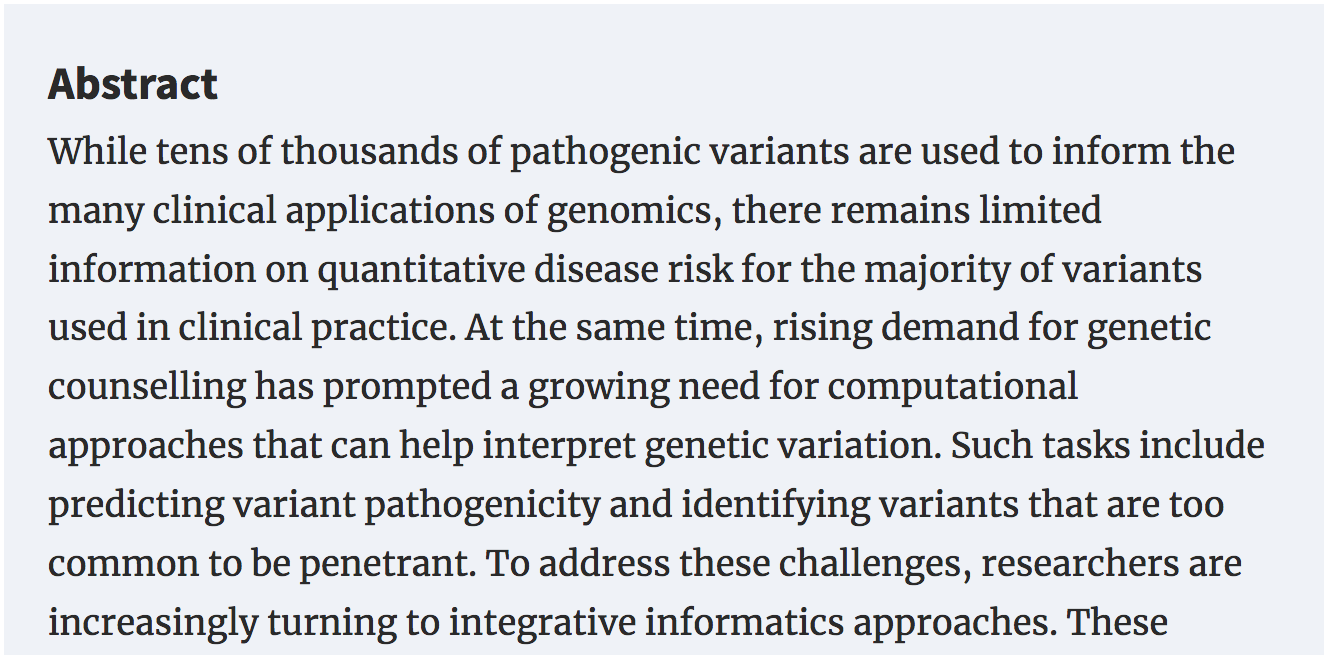
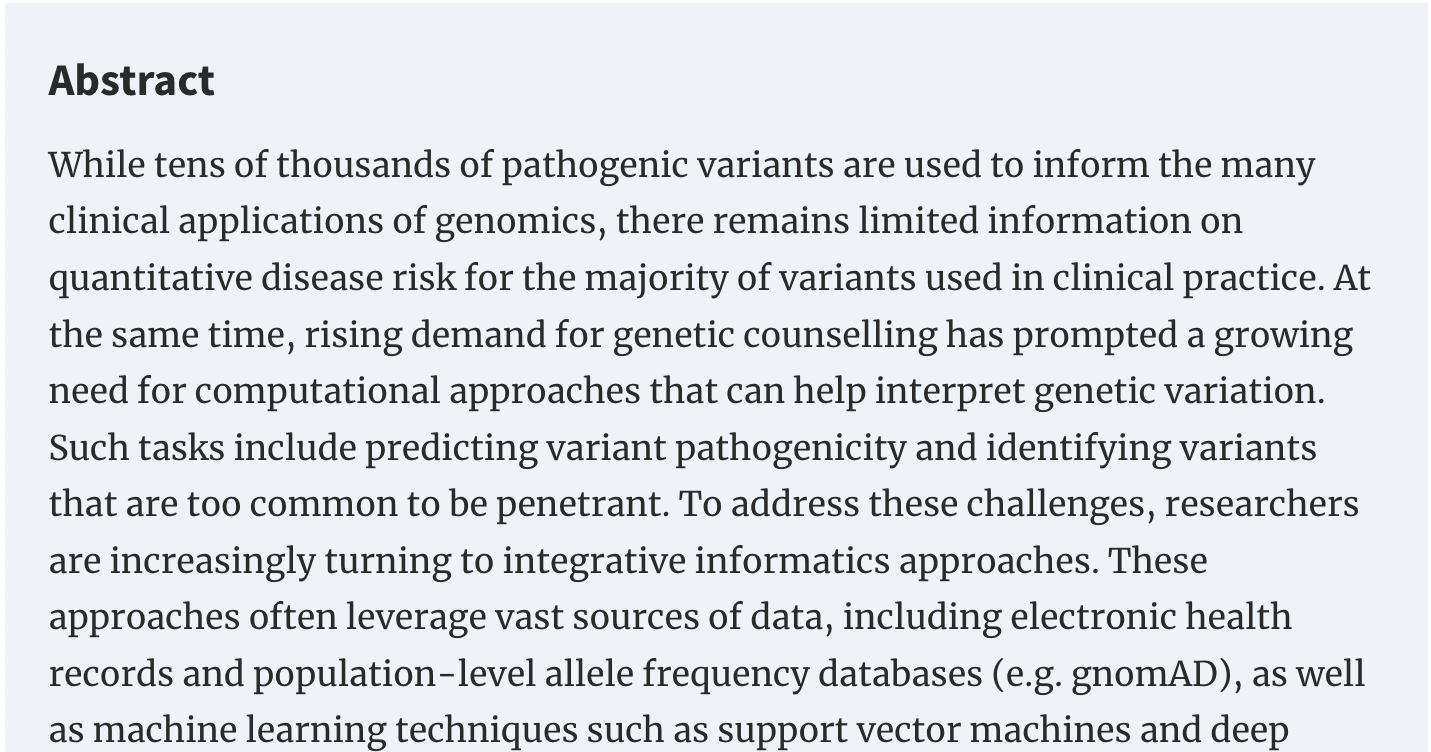
Increased image quality of HMG title/abstract

Changed region(s): [[0.0308, 0.1832, 0.9549, 1.0], [0.0308, 0.0916, 0.1848, 0.1527]]

diff --git a/_posts/2018-05-01-hmg-paper.md b/_posts/2018-05-01-hmg-paper.md
@@ -11,9 +11,9 @@ Today, [my first paper](https://academic.oup.com/hmg/article/27/R1/R29/4939376) 
 Very grateful to my mentor Raj Manrai for all his help in making this possible. 
 
 <br>
-<img src="/img/hmg-title.png" alt="HMG Paper Title Section" title="HMG Paper Title Section" style="width:600px;height:249;">  
-<img src="/img/hmg-abstract-1.png" alt="HMG Paper Title Section" title="HMG Paper Title Section" style="width:600px;height:296px;">  
-<img src="/img/hmg-abstract-2.png" alt="HMG Paper Title Section" title="HMG Paper Title Section" style="width:598px;height:265px;">  
+<img src="/img/hmg-title.png" alt="HMG Paper Title Section" title="HMG Paper Title Section" style="width:600px;height:222;">  
+<img src="/img/hmg-abstract-1.png" alt="HMG Paper Abstract Section 1" title="HMG Paper Abstract Section 1" style="width:600px;height:315px;">  
+<img src="/img/hmg-abstract-2.png" alt="HMG Paper Abstract Section 2" title="HMG Paper Abstract Section 2" style="width:598px;height:189px;">  
 <br>
 <br>
 <img src="/img/hmg-cover.png" alt="HMG Volume 27 Issue R1" title="HMG Volume 27 Issue R1" style="width:598px;height:770px;">
